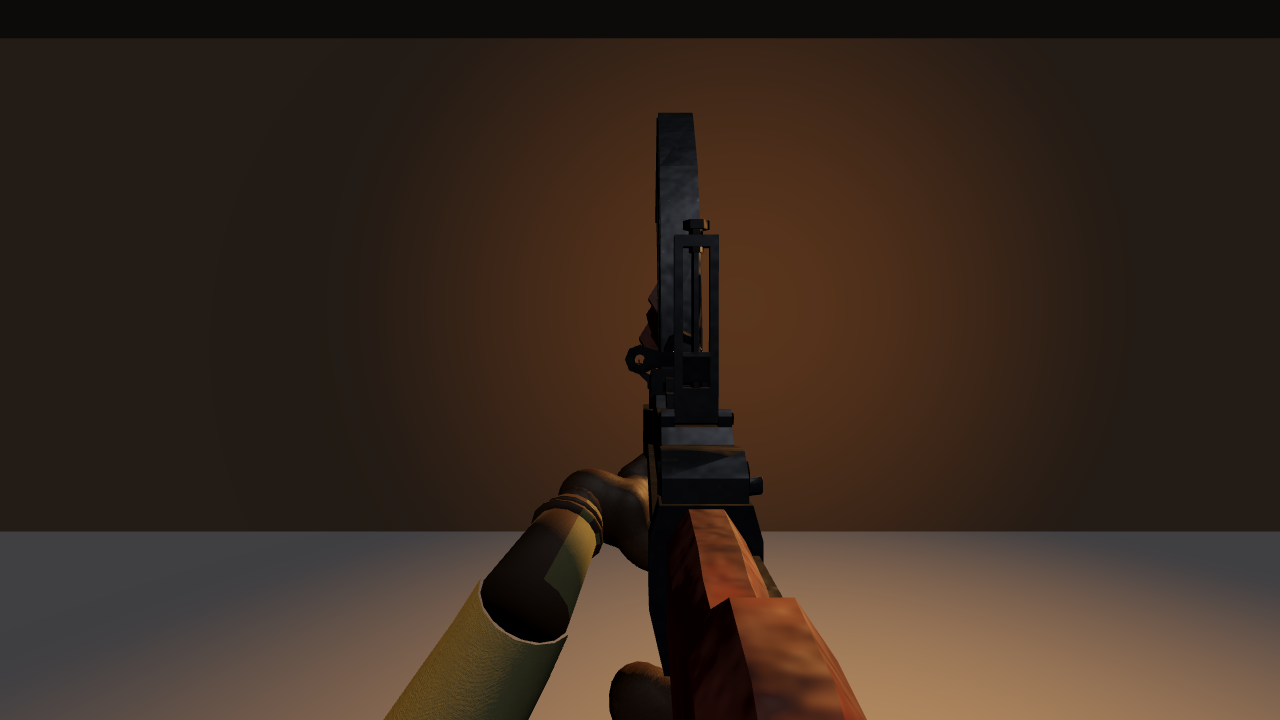
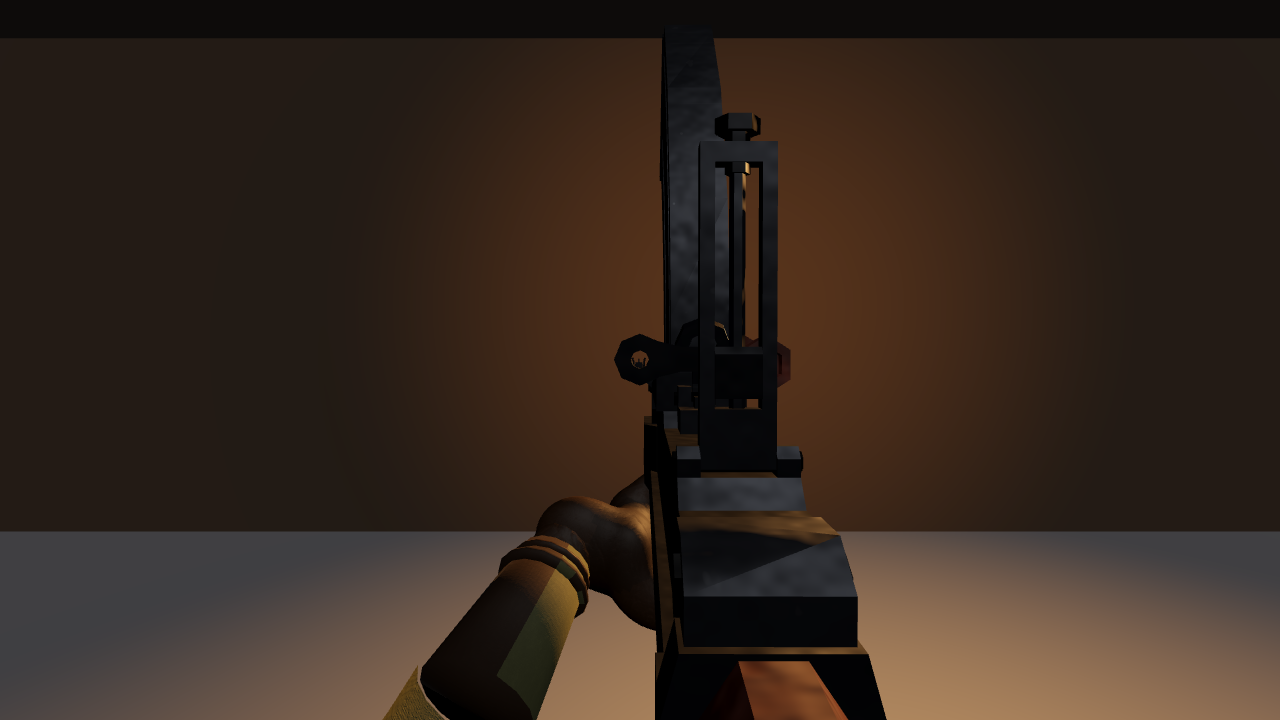
T-250: Bren sight picture: fold the carrying handle off the offset sight line, eye relief 0.20
test_sight_clearance was red on bren / bren_up (Body +54 mm): the OGA model's raised
carrying handle stood in the band left of the bore the offset sights look through.
New model_fit key fold (WeaponGLB._fold_mesh) turns that mesh island down to the right;
markers unchanged (aperture ring on the ladder base -> front post); eye relief 0.34 -> 0.20.

Changed region(s): [[0.3125, 0.0306, 0.7188, 1.0]]

diff --git a/docs/DECISIONS.md b/docs/DECISIONS.md
@@ -870,3 +870,5 @@ T-247, 2026-11-14, the owner: "WE NEED TO DO SOMETHING ABOUT THIS CRAPPY FONT AN
 T-248, 2026-11-14, the owner: "TYPE 100 NEEDS SOME WORK, IT WOULD ALSO BE NICE TO ADD ANOTHER 3 OR 4 GUNS." The Type 100 was a procedural greybox whose side magazine dropped down out of its flank on reload: now a hero model built in Blender (tools_src/blender/guns/type100.py, assets/ours/weapons/type100; an exception to downloaded-only, no free model exists, logged in WEAPON_MODELS.md), a `mag_dir` key so reloads and extended mags follow the magazine (left: Type 100, Sten, FG 42; up: Bren), and handling tuned (damage 55 -> 52, recoil 0.38 -> 0.30, tighter spread, eye relief 0.36). Four box-only guns from the same CC-BY WW2 pack as the baseline guns: FG 42 (assault), Mosin-Nagant M91/30 (bolt), Bren Mk II (lmg), Sten Mk II (smg), each with a Pack-a-Punch row, recoil, sounds (own generator), bot tier; the Soviet scouts carry a Mosin and one commando a Sten. No wall-buys (would need mapdata re-bake and the owner's pick of walls). Details: docs/u18/t248_guns.md.
 
 T-249, 2026-11-14, the owner: "ON THE FIRST MAP ON ROUND 30 CREATE A BOSS BATTLE ADD A SHERMAN TANK ... ON ROUND 40 I WANT TO MAKE THE USER GET BACK IN THE HOUSE FOR COVER BECAUSE THERE WILL BE AIRSTRIKES". `ShermanEvent` (gravelight/world/sherman/, data/gravelight/sherman.json, map00.json `sherman_event`; off on other maps). Round 30: the tank comes up the carters' road over the sawhorse barrier and parks outside the yard gate (hull collider on the map-edge layer: navmesh and zombie paths unchanged); 24 zombies (+8 per extra player, a quarter of them new fire zombies that burst within 2 m / on death and leave fire patches) attack it; tank 8000 HP on the boss bar; clear them and it assists rounds 31-39 (MG + 75 mm, never near players), lose it and a second comes on round 32. Der Fuhrmann (T-240) keeps round 30 and leads that horde (his arrival times per map row; Totenross stays on 20). Round 40: a Stuka dives and destroys it (the wreck burns on), then the air raid: siren, AIR RAID / GET INSIDE THE INN, 20 s countdown, 60 s of bombs with shadows and rings 3 s ahead, outside 110..30 damage, inside the inn none; bots walk to shelter points. Host-authoritative, mirrored to clients. Console `sherman 30|assist|40|raid|...`. Details: docs/u18/t249_sherman.md.
+
+T-250, 2026-11-14, follow-up to T-248: the only red unit test on master was `test_sight_clearance` (bren / bren_up: Body +54 mm above the sight line). A vertex scan showed the culprit was not the ladder rear sight but the OGA model's carrying handle, a slanted hoop standing raised on the barrel just ahead of the magazine (its own mesh island in Body, x +-28 mm, up to 66 mm above the sight line), inside the 12 mm band left of the bore that the offset sight line looks through. The tall ladder is centred on the receiver, with the 32 cm magazine straight ahead of it, so no line through the ladder can reach the front post; the working rear sight is the small aperture ring on the ladder base's left side, where T-248 had already put `sight_rear`. Markers unchanged. Fix: a new model_fit key `fold` {Part: [{min, max, pivot, axis, deg}]} (WeaponGLB._fold_mesh: mesh islands whose rig-space bounds lie inside the box turn about an axis, normals and tangents with them, visual only, like `warp`). The Bren's handle turns -90 deg about the barrel axis at its hinge, down to the right side, as the real handle folds away from the left-offset sights. Bren feel `eye_relief` 0.34 -> 0.20 (aperture guns: Garand / Carbine 0.24, Thompson 0.12): at 0.34 the aperture was an 8 px dot; at 0.20 the ring reads, with the front post and its ears centred in the hole. ads_zoom 0.8 unchanged; no gameplay numbers touched; test TOL / HALF_W unchanged, no per-gun exception. Captures: docs/captures/u18_guns/ads/bren_ads.png and bren_fp.png (WSL).

diff --git a/docs/u18/t248_guns.md b/docs/u18/t248_guns.md
@@ -80,7 +80,7 @@ All four come from the OpenGameArt "Ultimate Low Poly Guns" WW2 set (TastyTony /
   - `model_fit.json` places the sights from vertex scans and `ads_check --autofit`. All five guns pass `ads_check --headless --geometry` (markers and sight geometry).
   - Per gun:
     - the Sten's model faces backwards in the pack (`extra_rot` 180);
-    - the Bren's sights sit offset to the LEFT of its top magazine, as on the real gun;
+    - the Bren's sights sit offset to the LEFT of its top magazine, as on the real gun (the working rear sight is the aperture ring on the ladder base's left side; T-250 folds the raised carrying handle down to the right with model_fit `fold` and sets eye relief 0.20);
     - the Mosin-Nagant's model is 3.4 mm off centre, so its markers sit in the notch and on the post.
   - Casings: `models.json extras.cartridges.casing_for`.
   - Attachments: no drum on the Sten or FG 42; the Mosin's scope is a "PU Scope"; the Bren's extended magazine is a "Long Box Magazine".
